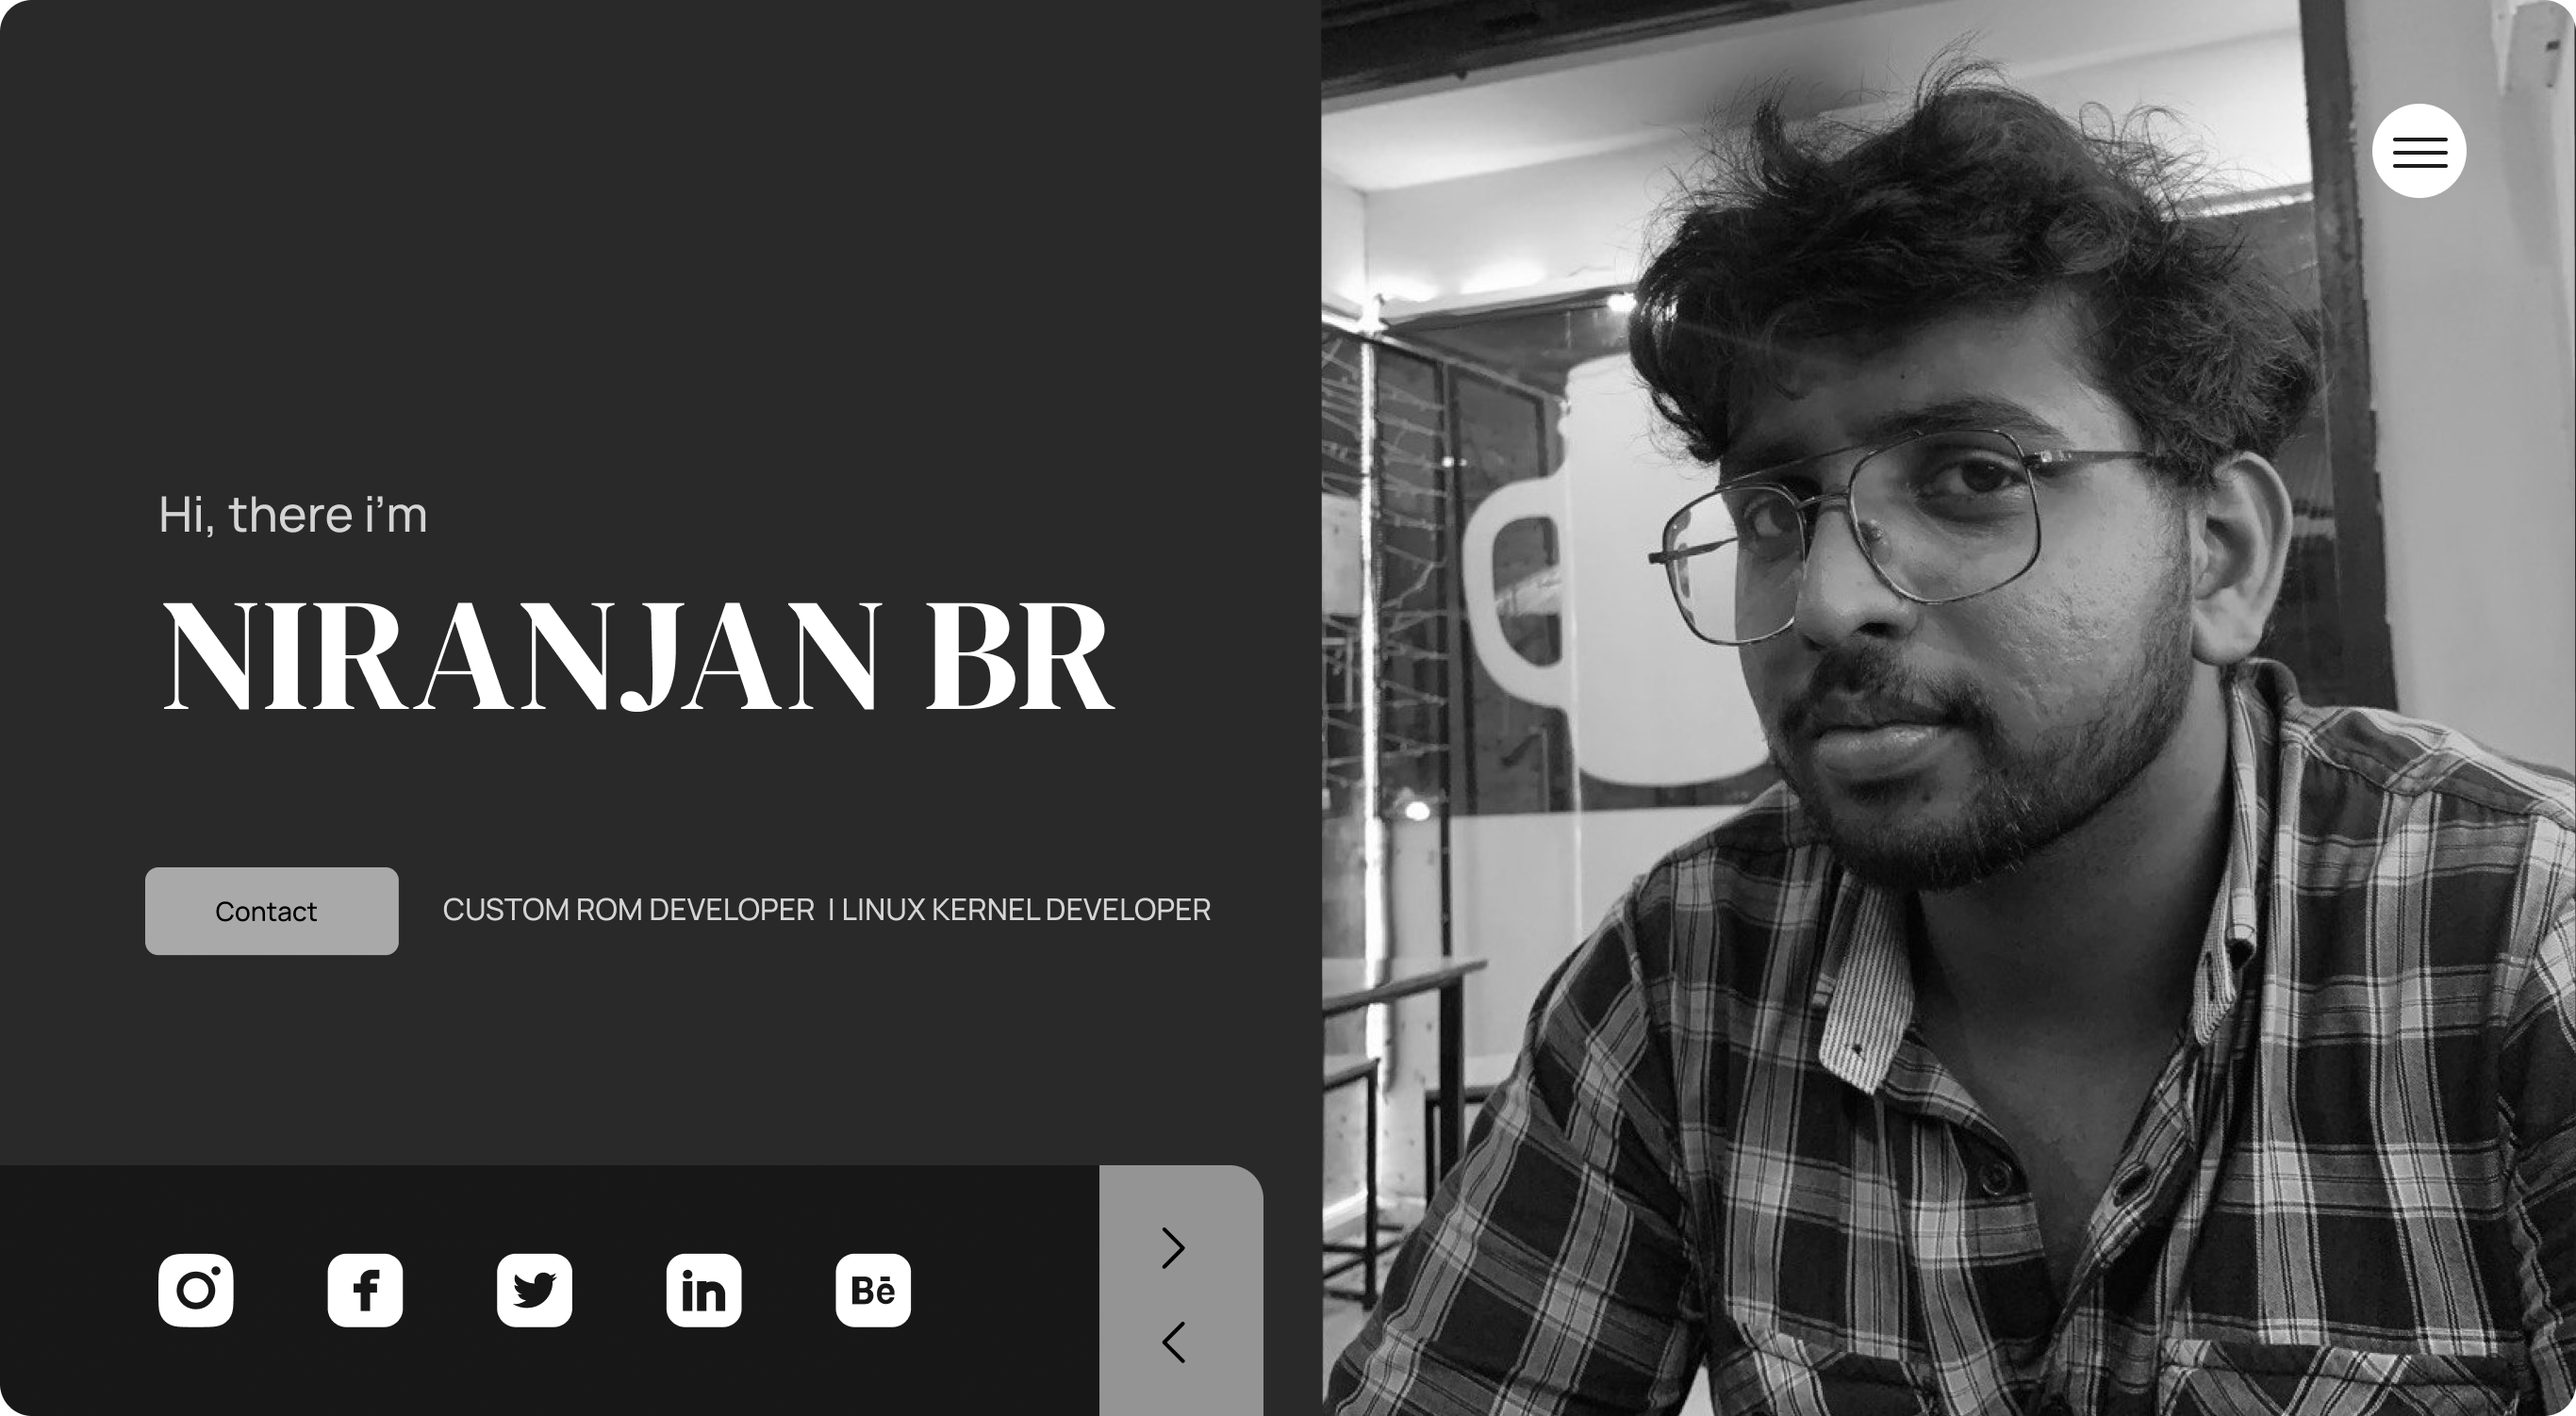
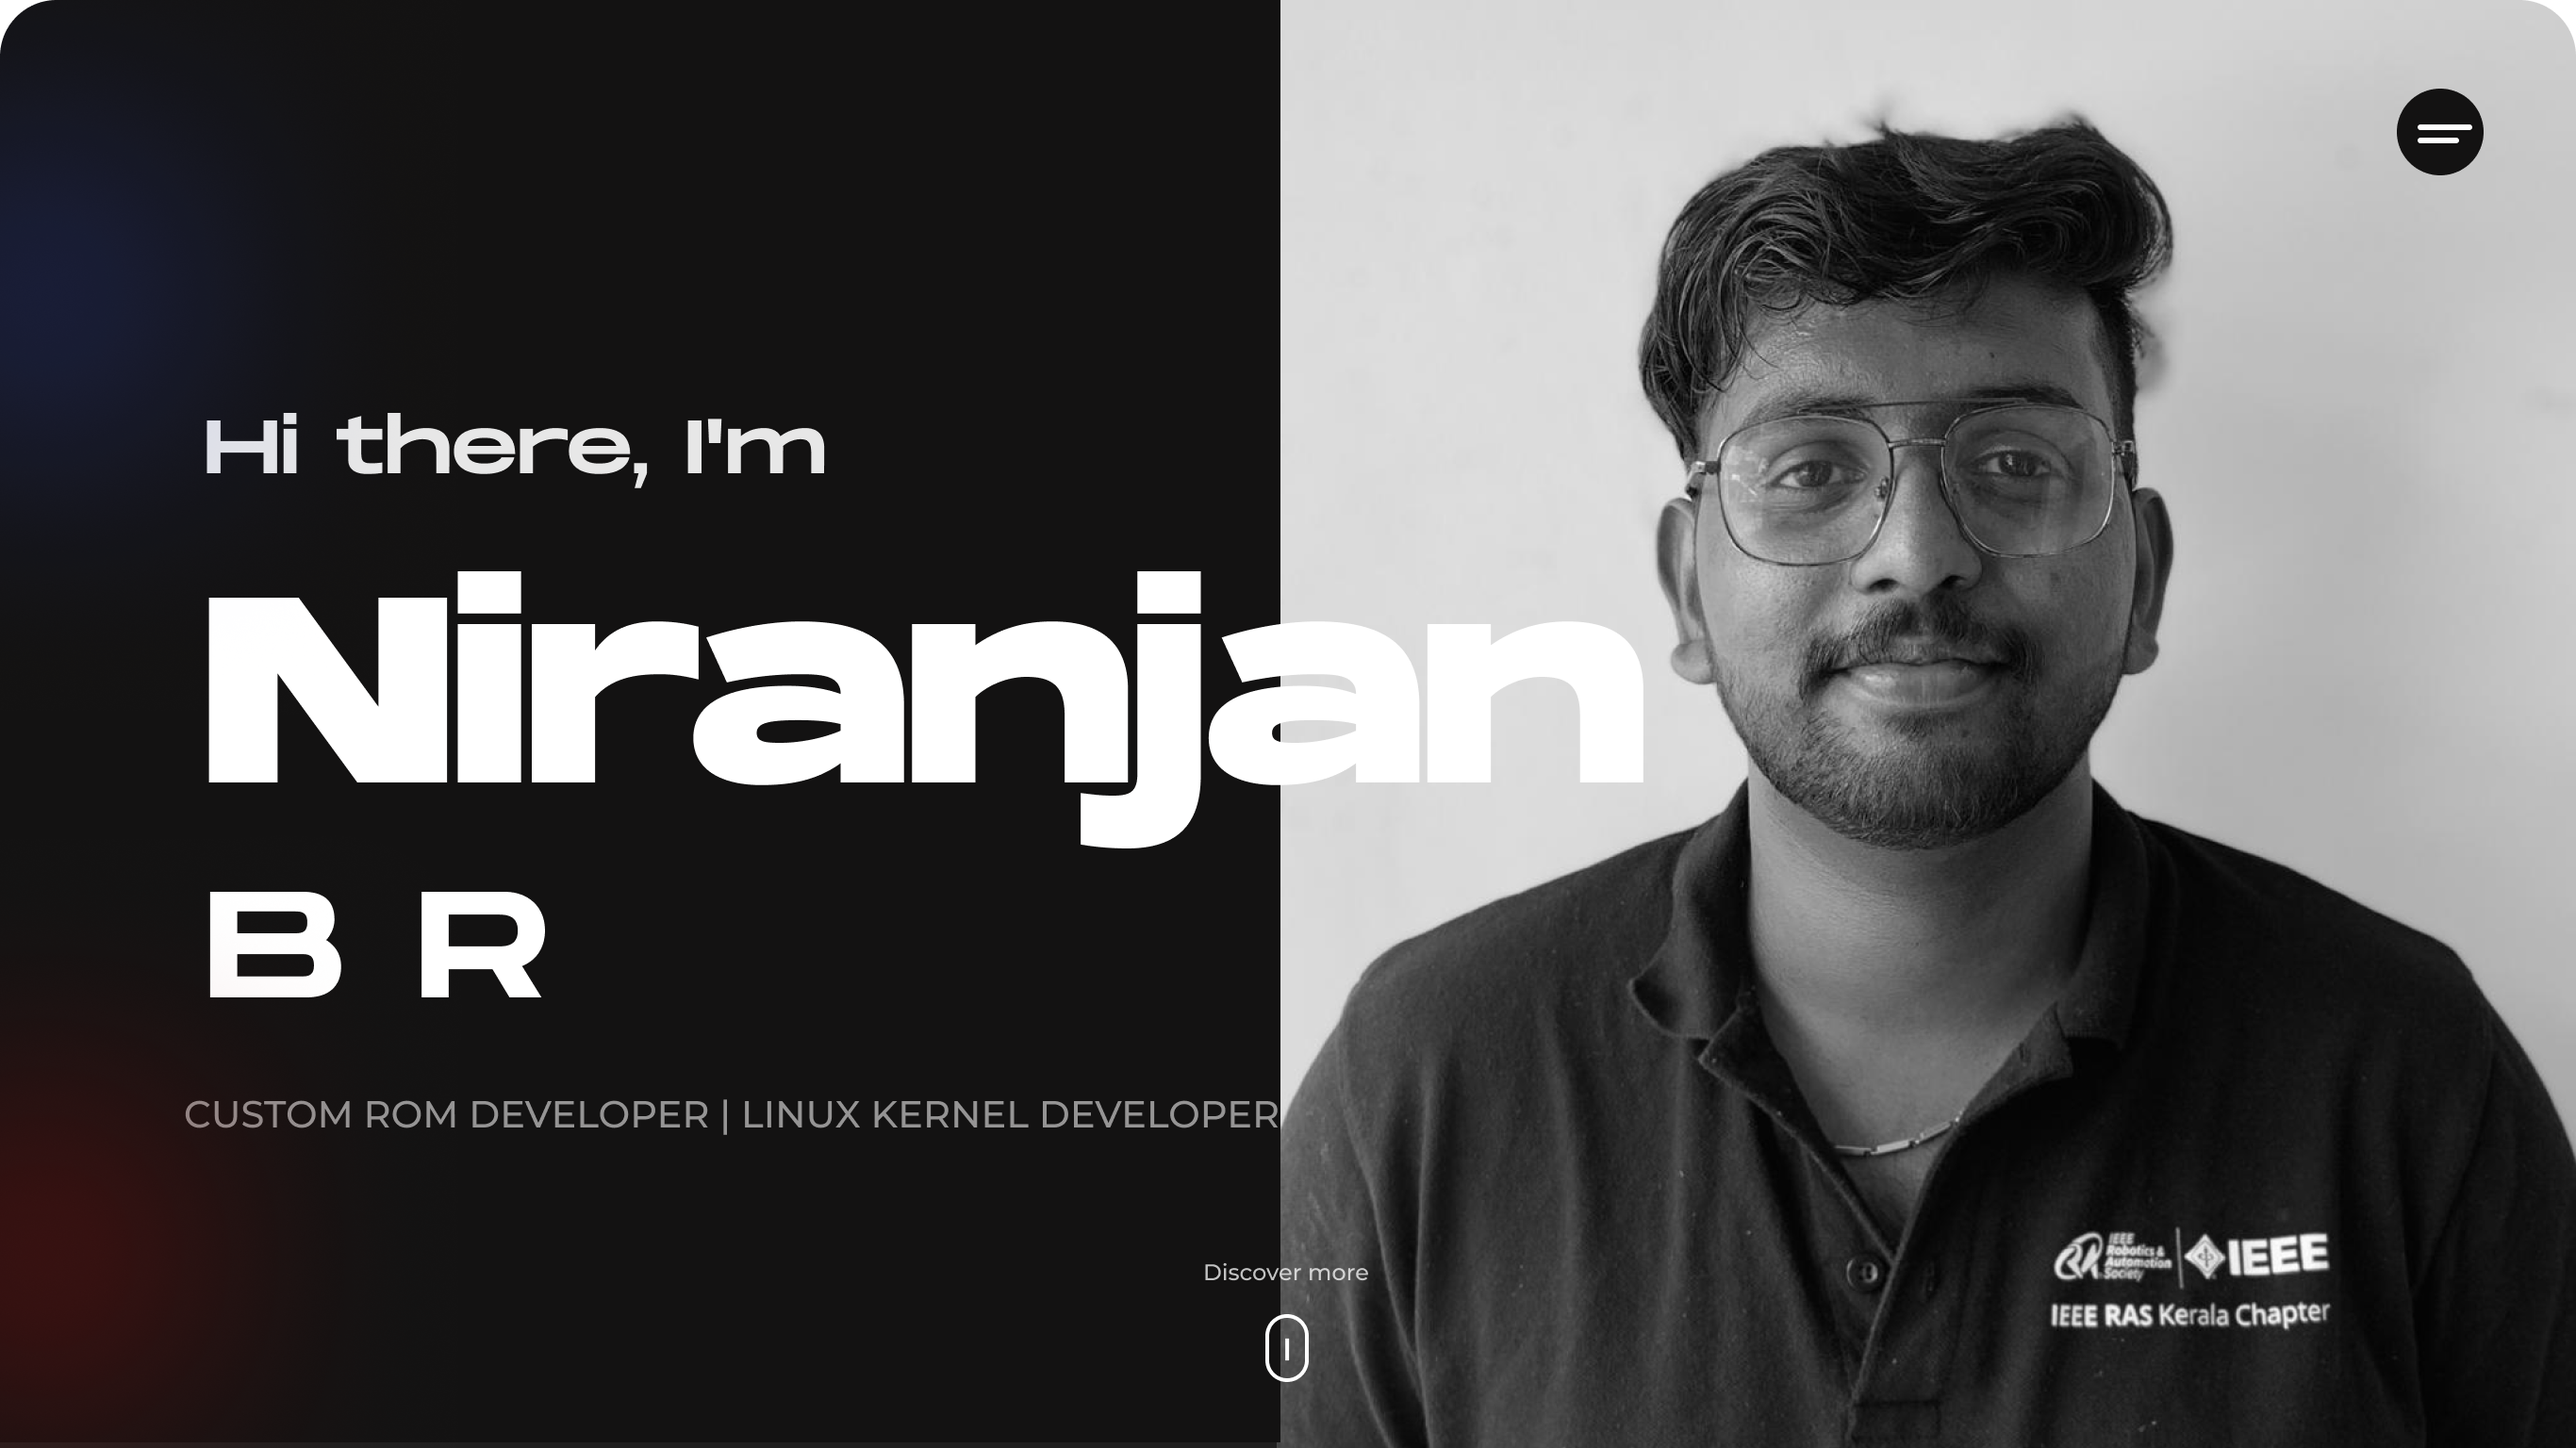
mrfox2003: assets: redesign

diff --git a/README.md b/README.md
@@ -1,5 +1,6 @@
 <a href="https://mrfox2003.github.io/">![HEADER](assets/header.png)</a>
-![SKILL](assets/skcontent.png)
+![SKILL](assets/skill.png)
+![SOCIAL](assets/social.png)
 <a href="https://mrfox2003.github.io/contact.html">![FOOTER](assets/footer.png)</a>
 
 <img src="https://komarev.com/ghpvc/?username=mrfox2003&style=flat-round&color=000000&label=Visitors">
